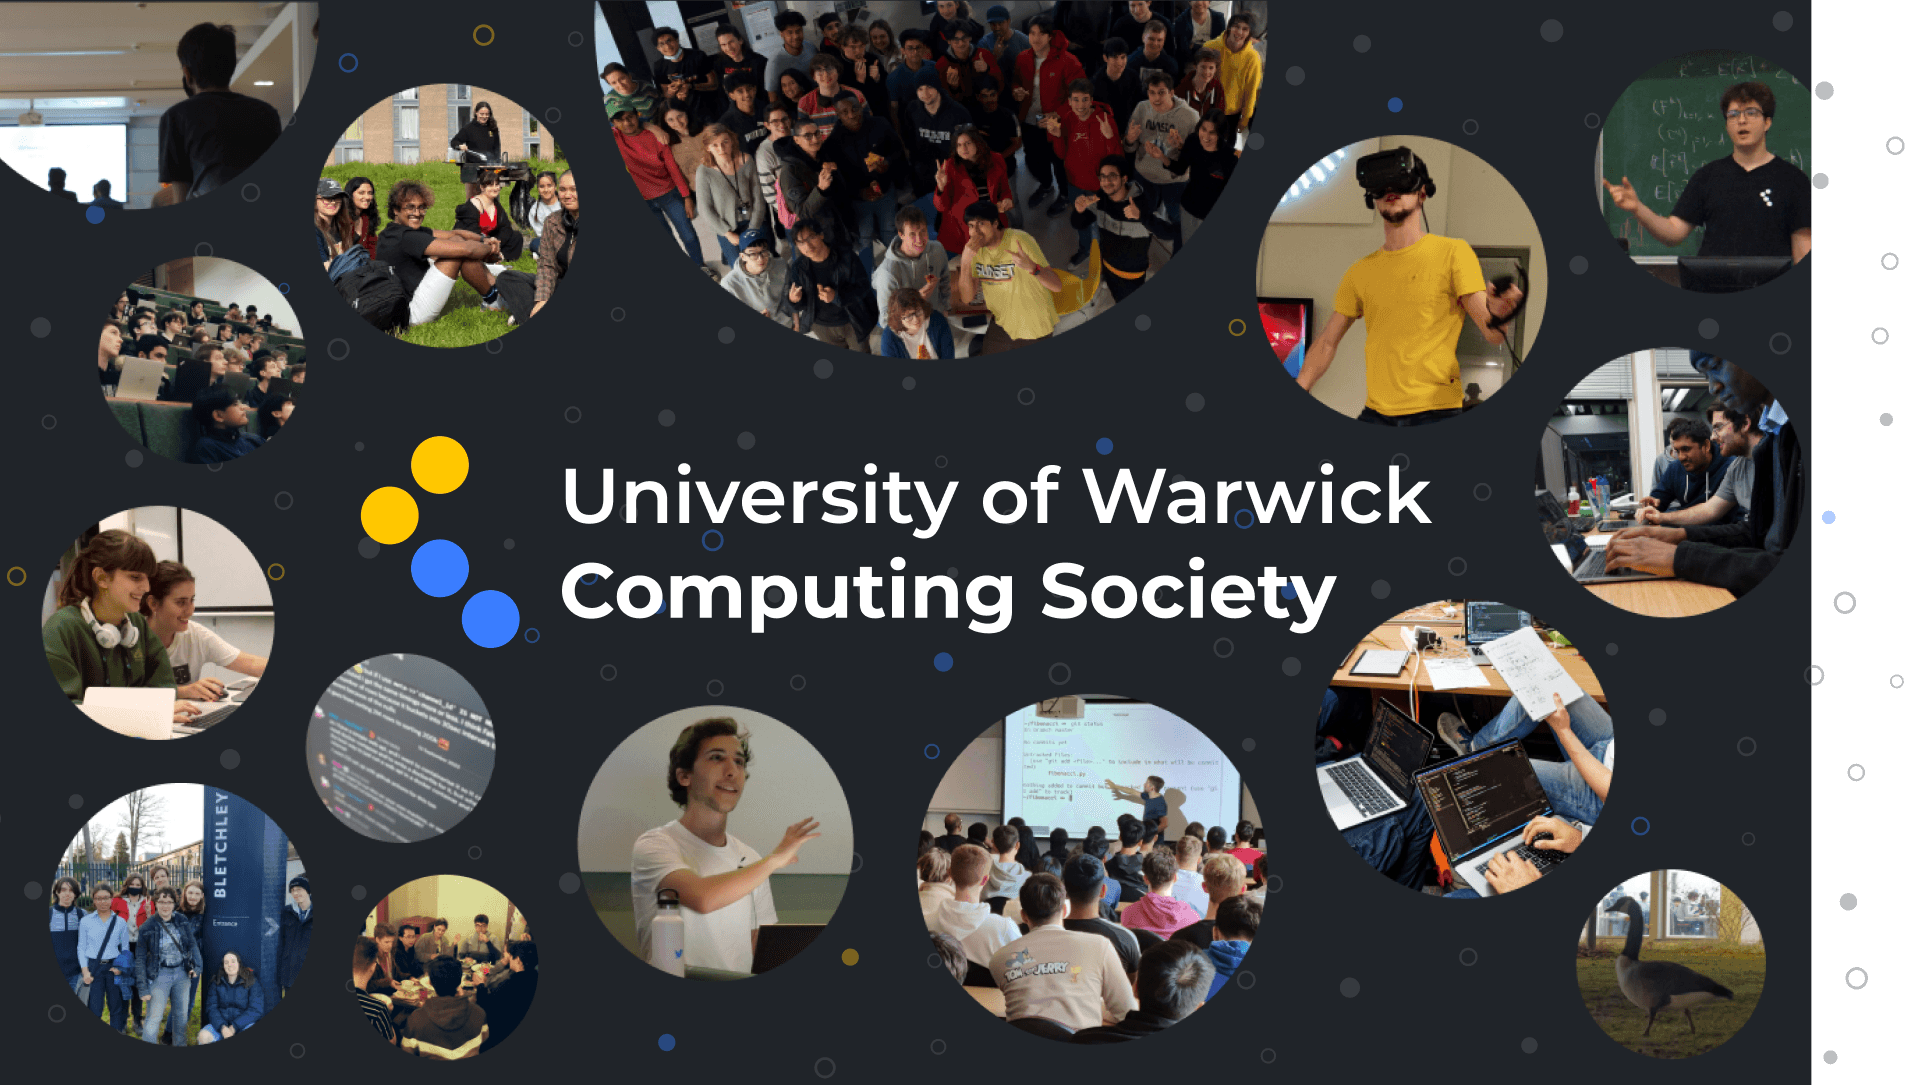
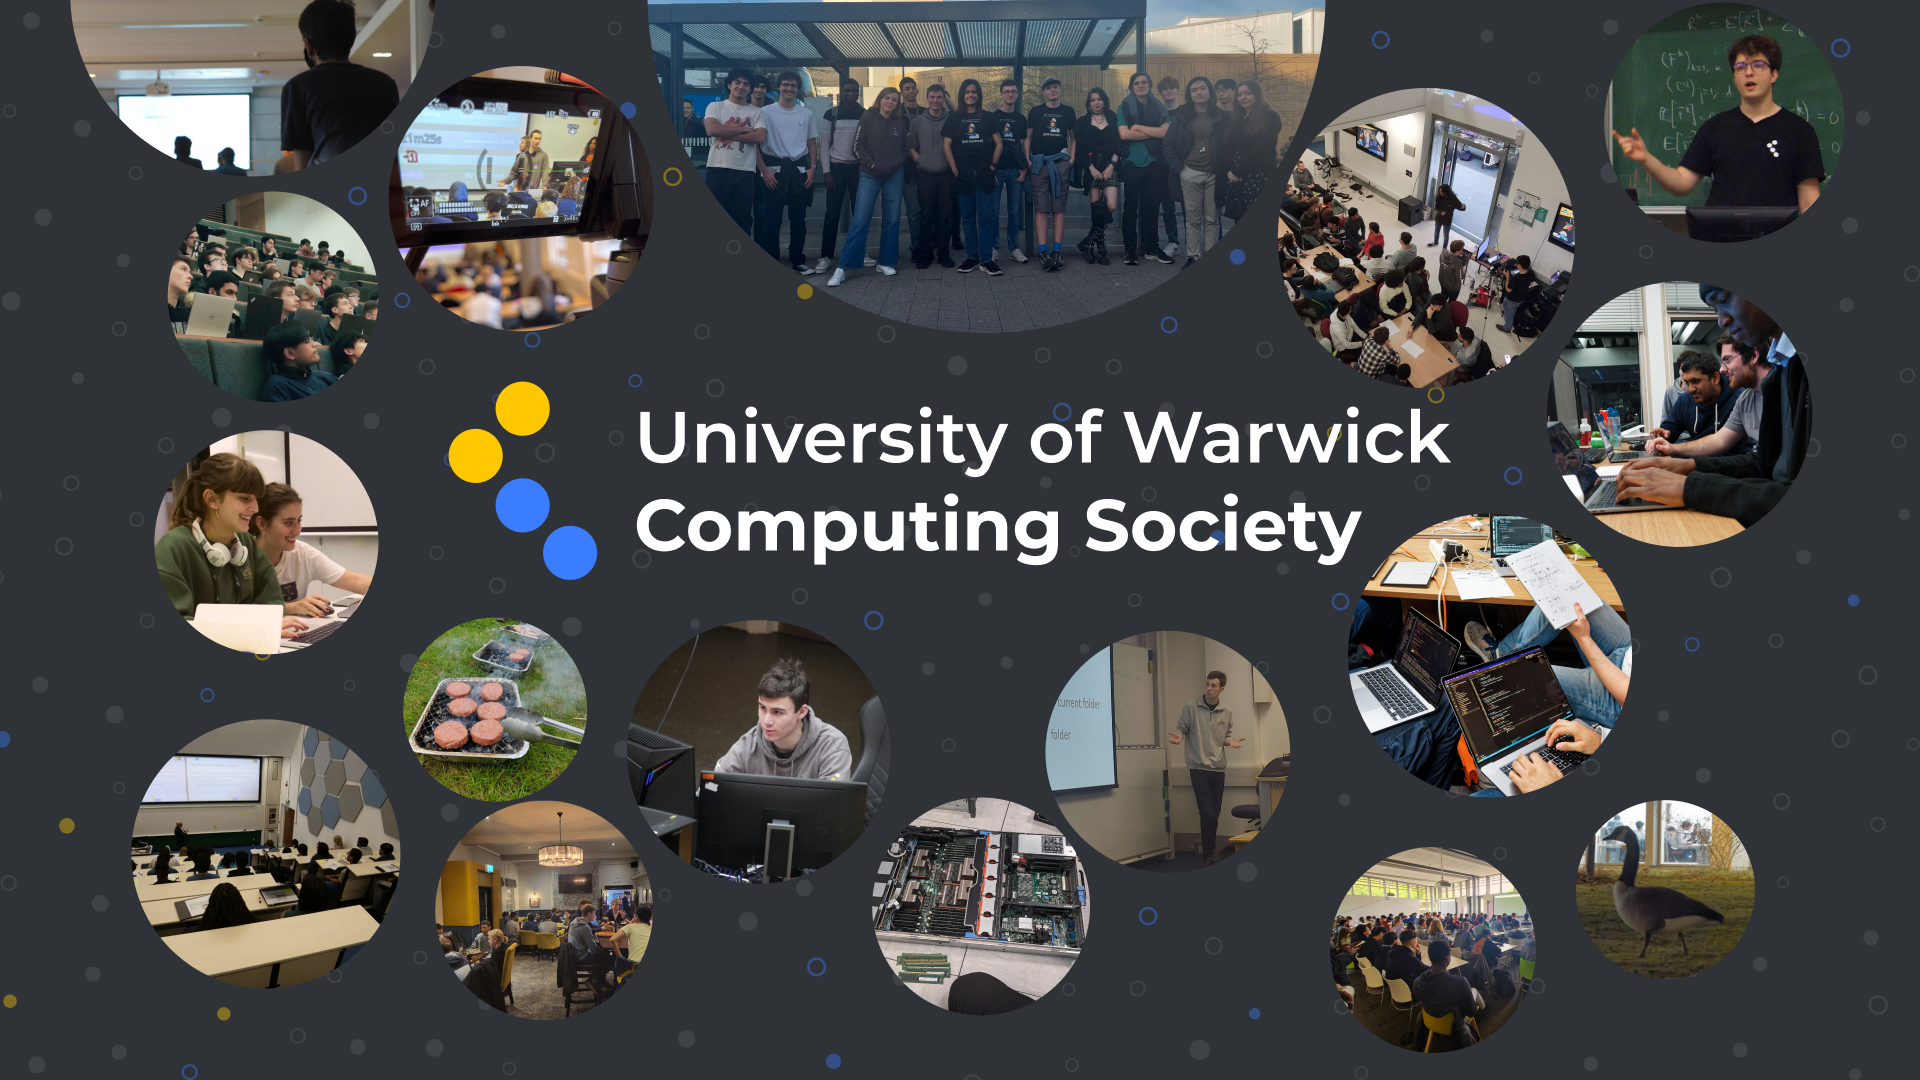
update front images

diff --git a/templates/macros/front.html b/templates/macros/front.html
@@ -2,21 +2,22 @@
 <div id="hero" class="w-100">
   <svg  id="hero-landscape" class="w-100 overflow-visible" viewBox="0 0 1300 820" fill="none" xmlns="http://www.w3.org/2000/svg" xmlns:xlink="http://www.w3.org/1999/xlink">
     <image style="animation-delay: 0.5s  " x="-43.5" y="-124" width="273" height="273" href="assets/circles/Talk.png"/>
-    <image style="animation-delay: 0.75s " x="426.5" y="-1.5" width="484" height="258" href="assets/circles/Crowd Pizza.png"/>
-    <image style="animation-delay: 1s    " x="901.5" y="95" width="210" height="210" href="assets/circles/VR.png"/>
-    <image style="animation-delay: 1.125s" x="225.5" y="58" width="190" height="190" href="assets/circles/WC BBQ.png"/>
-    <image style="animation-delay: 1.25s " x="1144.5" y="33" width="176" height="176" href="assets/circles/Speaker Joey.png"/>
-    <image style="animation-delay: 1.375s" x="70.5" y="182" width="149" height="149" href="assets/circles/Audience MS.png"/>
+    <image style="animation-delay: 0.75s " x="426" y="-10" width="484" height="258" href="assets/circles/PubTraversal.png"/>
+    <image style="animation-delay: 1s    " x="901.5" y="95" width="210" height="210" href="assets/circles/Quiz.png"/>
+    <image style="animation-delay: 1.125s" x="225.5" y="58" width="190" height="190" href="assets/circles/WelcomeTalkTech.png"/>
+    <image style="animation-delay: 1.25s " x="1144.5" y="33" width="176" height="176" href="assets/circles/Speaker.png"/>
+    <image style="animation-delay: 1.375s" x="70.5" y="182" width="149" height="149" href="assets/circles/AudienceMS.png"/>
     <image style="animation-delay: 1.5s  " x="1101.5" y="247" width="194" height="195" href="assets/circles/Laptop.png"/>
     <image style="animation-delay: 1.625s" x="29" y="361" width="168" height="168" href="assets/circles/Coding.png"/>
     <image style="animation-delay: 1.75s " x="1130.5" y="622" width="137" height="137" href="assets/circles/Goose.png"/>
-    <image style="animation-delay: 1.875s" x="230.5" y="483" width="137" height="137" href="assets/circles/Discord.png"/>
-    <image style="animation-delay: 2s    " x="632.5" y="507" width="287" height="287" href="assets/circles/Talk Git Good.png"/>
-    <image style="animation-delay: 2.125s" x="943.5" y="427" width="216" height="216" href="assets/circles/Laptop Group Close.png"/>
-    <image style="animation-delay: 2.25s " x="25.2832" y="559" width="200" height="200" href="assets/circles/Bletchley.png"/>
-    <image style="animation-delay: 2.375s" x="400.5" y="498" width="199" height="199" href="assets/circles/Speaker Tomas.png"/>
-    <image style="animation-delay: 2.5s  " x="941.5" y="659" width="157" height="157" href="assets/circles/Rev Sesh.png"/>
-    <image style="animation-delay: 2.625s" x="242.5" y="643" width="167" height="167" href="assets/circles/Duck Table.png"/>
+    <image style="animation-delay: 1.875s" x="230.5" y="483" width="137" height="137" href="assets/circles/BBQBurgers.png"/>
+    <image style="animation-delay: 2s    " x="745" y="507" width="185" height="185" href="assets/circles/GitGood.png"/>
+    <image style="animation-delay: 2.125s" x="943.5" y="427" width="216" height="216" href="assets/circles/LaptopGroupClose.png"/>
+    <image style="animation-delay: 2.25s " x="25.2832" y="559" width="200" height="200" href="assets/circles/GResearch.png"/>
+    <image style="animation-delay: 2.375s" x="400.5" y="498" width="202" height="202" href="assets/circles/WASDTech.png"/>
+    <image style="animation-delay: 2.5s  " x="941.5" y="659" width="157" height="157" href="assets/circles/RevisionSession.png"/>
+    <image style="animation-delay: 2.625s" x="242.5" y="643" width="167" height="167" href="assets/circles/PubMeal.png"/>
+    <image style="animation-delay: 2.75s " x="600" y="620" width="167" height="167" href="assets/circles/BBP.png"/>
     <svg  x="250" y="318" width="770" height="153" viewBox="0 0 770 153" fill="none" xmlns="http://www.w3.org/2000/svg">
       <circle fill="#FFC700" cx=57.5 cy=21 r=21 />
       <circle fill="#FFC700" cx=21.5 cy=57 r=21 />
@@ -33,20 +34,20 @@
 
   <svg id="hero-portrait" class="w-100 overflow-visible" viewBox="0 0 914 975" fill="none" xmlns="http://www.w3.org/2000/svg" xmlns:xlink="http://www.w3.org/1999/xlink">
     <image style="animation-delay: 0.5s  " x="-103" y="-123" width="273" height="273" href="assets/circles/Talk.png"/>
-    <image style="animation-delay: 0.75s " x="212" y="-5" width="406" height="217" href="assets/circles/Crowd Pizza.png"/>
-    <image style="animation-delay: 1s    " x="567" y="139" width="182" height="182" href="assets/circles/VR.png"/>
-    <image style="animation-delay: 1.125s" x="68" y="149" width="205" height="206" href="assets/circles/WC BBQ.png"/>
-    <image style="animation-delay: 1.25s " x="743" y="12" width="158" height="158" href="assets/circles/Speaker Joey.png"/>
-    <image style="animation-delay: 1.375s" x="362" y="240" width="133" height="133" href="assets/circles/Audience MS.png"/>
+    <image style="animation-delay: 0.75s " x="212" y="-10" width="406" height="217" href="assets/circles/PubTraversal.png"/>
+    <image style="animation-delay: 1s    " x="567" y="139" width="182" height="182" href="assets/circles/Quiz.png"/>
+    <image style="animation-delay: 1.125s" x="68" y="149" width="205" height="206" href="assets/circles/WelcomeTalkTech.png"/>
+    <image style="animation-delay: 1.25s " x="743" y="12" width="158" height="158" href="assets/circles/Speaker.png"/>
+    <image style="animation-delay: 1.375s" x="362" y="240" width="133" height="133" href="assets/circles/AudienceMS.png"/>
     <image style="animation-delay: 1.5s  " x="766" y="243" width="129" height="130" href="assets/circles/Laptop.png"/>
     <image style="animation-delay: 1.625s" x="22" y="573" width="141" height="141" href="assets/circles/Coding.png"/>
     <image style="animation-delay: 1.75s " x="778" y="792" width="115" height="115" href="assets/circles/Goose.png"/>
-    <image style="animation-delay: 1.875s" x="394" y="606" width="250" height="249" href="assets/circles/Talk Git Good.png"/>
-    <image style="animation-delay: 2s    " x="669" y="568" width="206" height="206" href="assets/circles/Laptop Group Close.png"/>
-    <image style="animation-delay: 2.125s" x="247" y="785" width="157" height="157" href="assets/circles/Bletchley.png"/>
-    <image style="animation-delay: 2.375s" x="196" y="585" width="173" height="173" href="assets/circles/Speaker Tomas.png"/>
-    <image style="animation-delay: 2.5s  " x="615" y="806" width="136" height="136" href="assets/circles/Rev Sesh.png"/>
-    <image style="animation-delay: 2.625s" x="57" y="736" width="167" height="167" href="assets/circles/Duck Table.png"/>
+    <image style="animation-delay: 1.875s" x="394" y="606" width="250" height="249" href="assets/circles/BBQBurgers.png"/>
+    <image style="animation-delay: 2s    " x="669" y="568" width="206" height="206" href="assets/circles/GitGood.png"/>
+    <image style="animation-delay: 2.125s" x="247" y="785" width="157" height="157" href="assets/circles/GResearch.png"/>
+    <image style="animation-delay: 2.375s" x="196" y="585" width="173" height="173" href="assets/circles/WASDTech.png"/>
+    <image style="animation-delay: 2.5s  " x="615" y="806" width="136" height="136" href="assets/circles/PubMeal.png"/>
+    <image style="animation-delay: 2.625s" x="57" y="736" width="167" height="167" href="assets/circles/BBP.png"/>
 
     <svg  x="57" y="389" width="770" height="153" viewBox="0 0 770 153" fill="none" xmlns="http://www.w3.org/2000/svg">
       <circle fill="#FFC700" cx=57.5 cy=21 r=21 />
